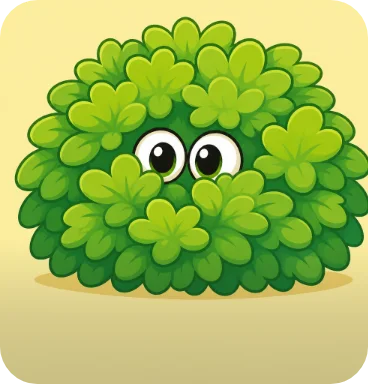
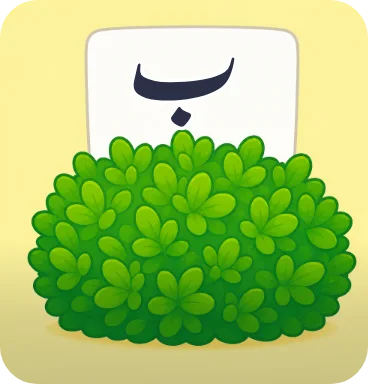
Put real Urdu on the menu tiles
The tiles were decorative — a goat for "starts with", a magnifying glass over
three coloured dots for "find the letter" — and the reason was written into the
tool that makes them: the image model cannot draw Nastaliq and will cheerfully
put English on the tile of an Urdu app, so every brief substituted blank cards
for letters. But a literal picture of "find the letter" is a magnifying glass
over *letters*, and letters were the one thing the generator could not produce.

So it does not produce them. The briefs still ask for blank places, and the tool
now paints the letters in itself afterwards, out of content/glyphs.json, in the
Playwright page it already opens to crop and round. A brief is `{art, slots}`;
a slot is `{letter | number, form, x, y, height}` in fractions of the tile.
Fifteen tiles carry real Urdu now: ب under the magnifying glass, ا ب ج on three
balloons, ۱ ۲ ۳ up the stepping stones, ب on the card the goat is standing
beside, ب on the sign the mole is holding.

Nine briefs were rewritten and regenerated because their art had nowhere to put
a letter — three small circles under a lens became one large card, five
balloons became three big ones, a stack of five blocks became two. Three more
(StartsWith, Whack, Hidden) had their only blank space in the bottom third,
which the game's name covers at runtime, so it was invisible.

Two rules learnt by looking at the sheet, and written down in CONTRIBUTING:
[…]

diff --git a/CONTRIBUTING.md b/CONTRIBUTING.md
@@ -529,6 +529,23 @@ test can answer, and the alternative is playing to level nine to find out what
 level nine looks like. The sheet used to be laid out 380 tall, which is how an
 indicator that filled two thirds of the real rail passed a look at it.
 
+**The tiles carry real Urdu, and the model did not draw it.** `npm run tiles`
+generates a picture per menu tile, and the briefs deliberately ask for blank
+places — an unmarked balloon, an empty card, a plain wooden disc — because an
+image model cannot draw Nastaliq and will put English on the tile of an Urdu app
+if given the chance. `make-tile-art.mjs` then paints the letters in itself, out
+of `content/glyphs.json`, in the same Playwright page it already uses to crop
+and round. A brief is `{art, slots}`; a slot is `{letter | number, form, x, y,
+height}` in fractions of the tile.
+
+Two things a slot has to respect. It belongs in the **upper two thirds** — the
+bottom third carries the game's name at runtime and anything under there is
+invisible — and it wants to be **large**: a letter at a tenth of the tile is
+seventeen pixels on a phone and reads as a highlight rather than a letter. Two
+big letters beat five small ones, which is why several briefs were rewritten to
+ask for fewer, larger objects. Moving a slot is free; the raw generations are
+cached in `.image-cache/tile/` and only a changed brief costs anything.
+
 **The spider is still the narrator on the menu.** Its art is four drawn poses in
 `public/images/mascot/`, generated by `npm run mascot` and committed. There is
 no rig: the one thing an image model cannot do is draw the same character eight

diff --git a/todo.md b/todo.md
@@ -19,20 +19,6 @@ editor. Nothing in the code assumes 38 — `letters.length` is read everywhere i
 matters — but the count appears in a few comments and in the Settings row, so
 those want a look.
 
-### Most tile pictures do not show their game
-
-Only **Balloons**, **Pairs** and **More games** have a picture that says what
-the tile does. The rest are decorative: a goat for "starts with", an open book
-for words, a crayon for writing, a stack of cards for letters, a star for
-shapes, a magnifying glass over coloured dots for find-the-letter. A child who
-cannot read the label has nothing to go on, which is most of the point of a
-picture on a tile.
-
-They want redrawing literally — the picture should be a small scene of the game
-being played, not an object loosely associated with it. `npm run tiles`
-regenerates them from the briefs in `tools/make-tile-art.mjs`; the work is
-mostly in the briefs.
-
 ## The tracing editor
 
 ### The tracer's sliders need a scroll on a phone
